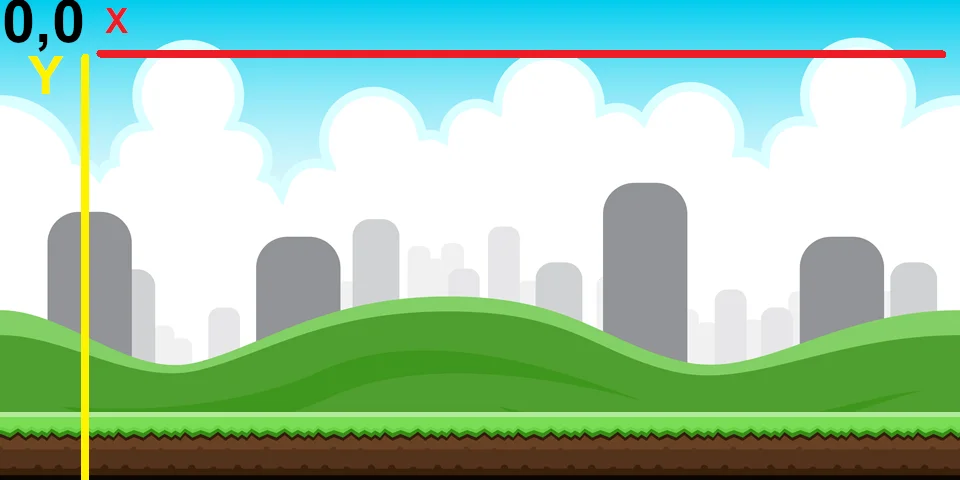
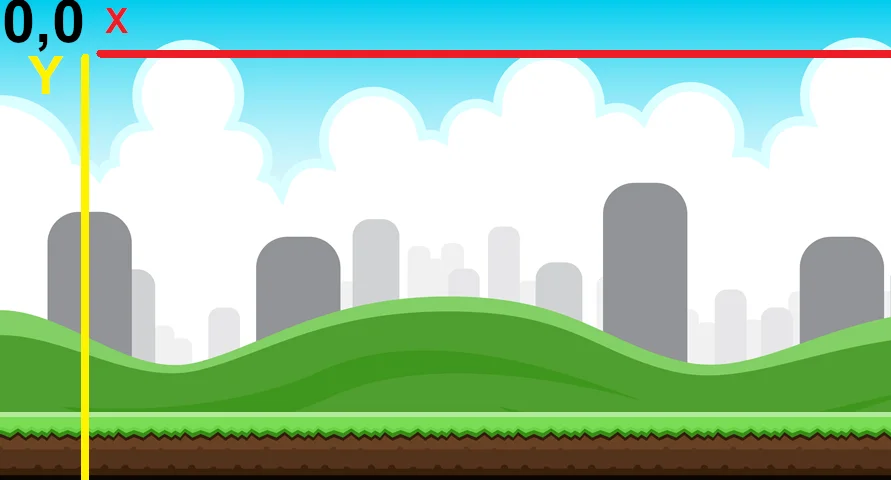
Actualizacion barra lateral izquierda
Se arreglo el tamaño de las imágenes, y de la barra lateral izquierda.

Changed region(s): [[0.0, 0.0, 1.0, 1.0], [0.1818, 0.0625, 1.0, 0.4375], [0.2424, 0.875, 0.9394, 0.9375]]

diff --git a/boostrap/boostrap.html b/boostrap/boostrap.html
@@ -25,7 +25,7 @@
             <ul class="menu">
                 <li><a href="../index.html"> Inicio </a></li>
                 <li><a href="../frameworks/frameworks.html"> D.W. Frameworks </a></li>
-                <li><a href="../jeugos/juegos.html"> D.W. Juegos </a></li>
+                <li><a href="../juegos/juegos.html"> D.W. Juegos </a></li>
                 <li><a href="boostrap.html"> Boostrap </a></li>
                 <li><a href="../jquery/jquery.html"> JQuery </a></li>
             </ul>
@@ -34,6 +34,9 @@
         <!-- Contenido de la pagina -->
         <div class="contenido">
         </br>
+        <div class="boostrap">
+		
+		</div>
         <h1 align="center">
             <em>HLC - 2</em>
         </h1>
@@ -41,12 +44,14 @@
         <h2>
             <em>
                 Contenido
+				
             </em>
         </h2>
         <p>
             <ul>
                 <li>
                     Desarrollo web: framewoks
+					
                 </li>
                 <li>
                     Desarrollo web: juegos
@@ -76,5 +81,25 @@
         </ul>            
         </p>
     </div>
+    <!-- Barra lateral izquierda -->
+    <aside class="barizq">
+      <span class="titulillo">
+          Contenido
+      </span>
+      <ul class="puntitos">
+          <li>
+              <a href="#intro">Introducci&oacute;n</a>       
+          </li>
+          <li>
+              <a href="#frameworks">Que son los Frameworks?</a>       
+          </li>
+          <li>
+              <a href="#destacados">Frameworks destacados</a>       
+          </li>
+          <li>
+              <a href="#elegir">Qu&eacute; Framework elegir?</a>       
+          </li>
+      </ul>
+  </aside>
     </body>
 </html>

diff --git a/juegos/juegos.html b/juegos/juegos.html
@@ -44,6 +44,7 @@
                     ¿Qu&eacute; es JavaScript?;
                 </em>
             </h2>
+            <img src="imagenes/javasript.png" alt="javasript" class="fizq"/>
             <p>
                 <b>JavaScript es el lenguaje de programación encargado de dotar de mayor interactividad y dinamismo a las páginas web</b>. Cuando JavaScript se 
                 ejecuta en el navegador, no necesita de un compilador. <b>El navegador lee directamente el código, sin necesidad de terceros</b>. Por tanto, se 
@@ -378,7 +379,7 @@
             <span class="titulillo">
                 Contenido
             </span>
-            <ul>
+            <ul class="puntitos">
                 <li>
                     <a href="#intro">¿Qu&eacute; es JavaScript?;</a>       
                 </li>
@@ -401,7 +402,7 @@
                     <a href="#update">La lógica del juego</a>       
                 </li>
                 <li>
-                    <a href="#estructura"></a>       
+                    <a href="#mejoras"> Pequeñas mejoras en nuestro juego.</a>       
                 </li>
 
             </ul>

diff --git a/jquery/jquery.html b/jquery/jquery.html
@@ -76,5 +76,25 @@
             </ul>            
         </p>
     </div>
+    <!-- Barra lateral izquierda -->
+    <aside class="barizq">
+        <span class="titulillo">
+            Contenido
+        </span>
+        <ul class="puntitos">
+            <li>
+                <a href="#intro">Introducci&oacute;n</a>       
+            </li>
+            <li>
+                <a href="#frameworks">Que son los Frameworks?</a>       
+            </li>
+            <li>
+                <a href="#destacados">Frameworks destacados</a>       
+            </li>
+            <li>
+                <a href="#elegir">Qu&eacute; Framework elegir?</a>       
+            </li>
+        </ul>
+    </aside>
     </body>
 </html>

diff --git a/index.html b/index.html
@@ -88,7 +88,7 @@
 
         <!-- Barra lateral izquierda -->
         <aside class="barizq">
-            <ul>
+            <ul class="puntitos">
                 <span class="categoria">Desarrollo Web:</span>
                 <li>
                     <a href="frameworks/frameworks.html">Frameworks</a>

diff --git a/frameworks/frameworks.html b/frameworks/frameworks.html
@@ -278,7 +278,7 @@
             <span class="titulillo">
                 Contenido
             </span>
-            <ul>
+            <ul class="puntitos">
                 <li>
                     <a href="#intro">Introducci&oacute;n</a>       
                 </li>

diff --git a/estilos/style.css b/estilos/style.css
@@ -311,6 +311,7 @@ nav {
     border-radius: 20px;    
     margin: 10% auto 10%;
     padding: auto;
+	width: 12vw;
     padding-right: 2%;
     padding-top: 1%;
     background-size: contain;
